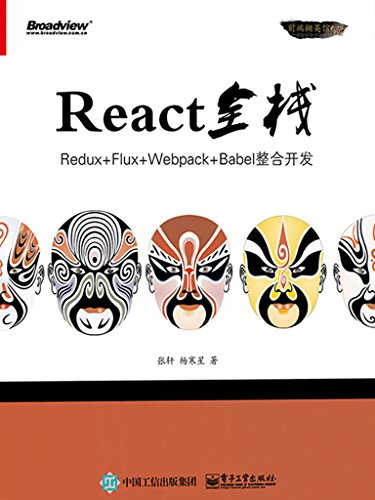
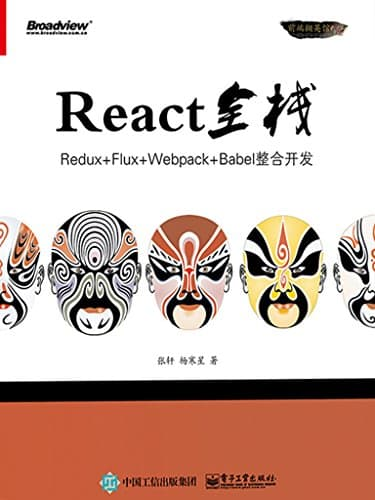
Compress pictures

diff --git a/_drafts/after-reading-react-full-stack-developer.md b/_drafts/after-reading-react-full-stack-developer.md
@@ -1,6 +1,6 @@
 ---
 layout: post
-title: from《 React 全栈》to《 React 学习手册》
+title: FROM《 React 全栈》TO《 React 学习手册》
 date: 2020-04-07 22:00:00
 categories: blog-cn
 tags: 计算机应用技术
